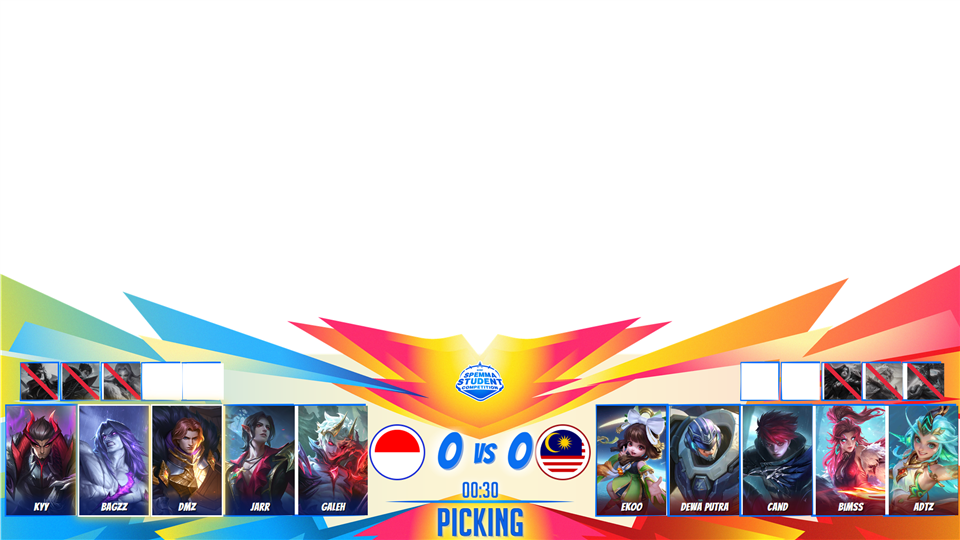
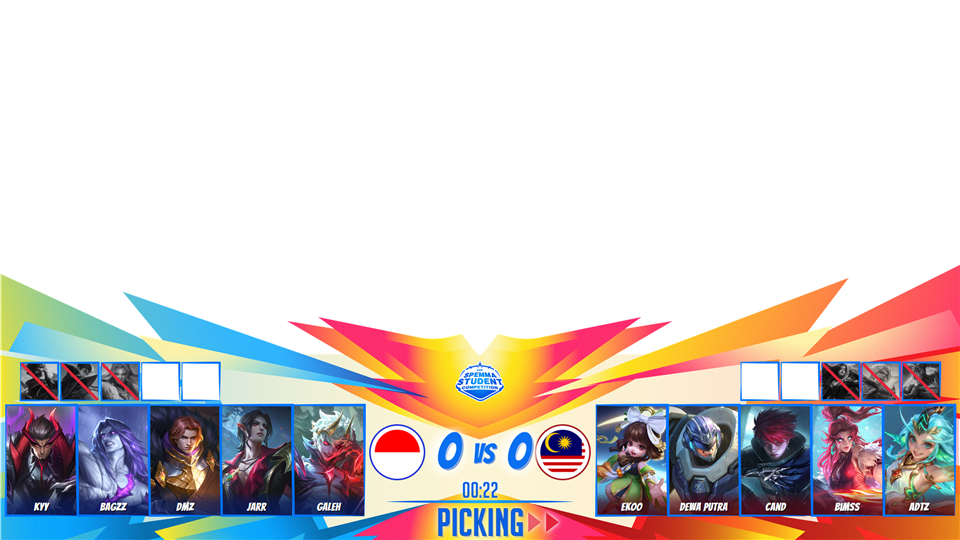
displayssc / displaysscban6: frames drawn over the heroes, turn arrows, preview fit
- slot interiors of bg.png are transparent and the background sits above the slots, so the
  hand-drawn (slightly tilted) frame lines crop the hero art cleanly; slots are 5 px larger than
  the frame interior so no white gaps show
- turn arrows beside the phase text, driven by the same direction gif as the older templates
  (Left/Right): two animated triangles in the team colour pointing at the team on the clock
- active slot: white inner ring with a pulsing glow inside the frame; thinner ban slash
- browser windows narrower than 1920 px scale the overlay to fit (OBS / vMix at 1920 unchanged)

diff --git a/public/displayssc.css b/public/displayssc.css
@@ -2,58 +2,75 @@
    Posisi slot diukur dari bingkai putih di gambar latar; isi slot ditaruh tepat di dalam bingkai. */
 
 html, body { margin: 0; padding: 0; background: transparent; overflow: hidden; }
-.ds-root { position: relative; width: 1920px; height: 1080px; overflow: hidden; font-family: var(--ssc-font-title); }
-.ds-bg { position: absolute; left: 0; top: 0; width: 1920px; height: 1080px; animation: dsBgIn 0.8s cubic-bezier(0.2, 0.8, 0.2, 1) both; }
+.ds-root { position: relative; width: 1920px; height: 1080px; overflow: hidden; isolation: isolate; transform-origin: 0 0; font-family: var(--ssc-font-title); }
+.ds-bg { position: absolute; left: 0; top: 0; z-index: 2; width: 1920px; height: 1080px; pointer-events: none; animation: dsBgIn 0.8s cubic-bezier(0.2, 0.8, 0.2, 1) both; }
+/* semua teks & logo di atas latar */
+.ds-logo, .ds-score, .ds-vs, .ds-timer, .ds-phase, .ds-teamplate { z-index: 3; }
 .hide { display: none; }
 .audiob { position: absolute; left: 0; top: 0; opacity: 0; }
 
-/* ---------- Slot ban & pick ---------- */
-.ds-bans, .ds-picks { position: absolute; display: flex; }
-.ds-bans { top: 726px; gap: 9px; }
-.ds-bans.blue { left: 41px; }
-.ds-bans.red { left: 1482px; }
-.ds-picks { top: 811px; gap: 7px; }
-.ds-picks.blue { left: 12px; }
-.ds-picks.red { left: 1193px; }
+/* ---------- Slot ban & pick ----------
+   Bagian dalam bingkai di bg.png transparan dan latar berada DI ATAS slot: garis bingkai (agak miring, gaya gambar tangan)
+   memotong gambar hero dengan rapi. Slot dibuat 5 px lebih besar dari bagian dalam bingkai agar tidak ada celah. */
+.ds-bans, .ds-picks { position: absolute; left: 0; top: 0; z-index: 1; }
 .banhero, .heropick {
-    position: relative;
+    position: absolute;
     overflow: hidden;
     background: #fff;
-    animation: dsSlotIn 0.45s cubic-bezier(0.2, 0.8, 0.2, 1) both;
-    animation-delay: calc(0.45s + var(--i) * 70ms);
+    animation: dsSlotIn 0.4s cubic-bezier(0.2, 0.8, 0.2, 1) both;
+    animation-delay: calc(0.75s + var(--i) * 60ms);
 }
-.banhero { width: 74px; height: 73px; }
-.heropick { width: 139px; height: 219px; animation-delay: calc(0.6s + var(--i) * 70ms); }
+.banhero { top: 722px; width: 82px; height: 81px; }
+.heropick { top: 807px; width: 147px; height: 227px; animation-delay: calc(0.85s + var(--i) * 60ms); }
+.ds-bans.blue .banhero:nth-child(1) { left: 37px; }
+.ds-bans.blue .banhero:nth-child(2) { left: 117px; }
+.ds-bans.blue .banhero:nth-child(3) { left: 198px; }
+.ds-bans.blue .banhero:nth-child(4) { left: 279px; }
+.ds-bans.blue .banhero:nth-child(5) { left: 360px; }
+.ds-bans.red .banhero:nth-child(1) { left: 1478px; }
+.ds-bans.red .banhero:nth-child(2) { left: 1558px; }
+.ds-bans.red .banhero:nth-child(3) { left: 1639px; }
+.ds-bans.red .banhero:nth-child(4) { left: 1720px; }
+.ds-bans.red .banhero:nth-child(5) { left: 1801px; }
+.ds-picks.blue .heropick:nth-child(1) { left: 8px; }
+.ds-picks.blue .heropick:nth-child(2) { left: 152px; }
+.ds-picks.blue .heropick:nth-child(3) { left: 296px; }
+.ds-picks.blue .heropick:nth-child(4) { left: 439px; }
+.ds-picks.blue .heropick:nth-child(5) { left: 583px; }
+.ds-picks.red .heropick:nth-child(1) { left: 1189px; }
+.ds-picks.red .heropick:nth-child(2) { left: 1333px; }
+.ds-picks.red .heropick:nth-child(3) { left: 1477px; }
+.ds-picks.red .heropick:nth-child(4) { left: 1620px; }
+.ds-picks.red .heropick:nth-child(5) { left: 1764px; }
 
 .image-box { position: absolute; inset: 0; z-index: 2; }
-.image-box img { width: 100%; height: 100%; object-fit: cover; object-position: 50% 15%; opacity: 0; }
+.image-box img { width: 100%; height: 100%; object-fit: cover; object-position: 50% 18%; opacity: 0; }
 .image-box img:not([src]), .image-box img[src=""] { visibility: hidden; }
 /* pick: splash + stinger dari draft-fx.js menutupi box, gambar cukup muncul halus */
 .heropick .image-box.show img { opacity: 1; transition: opacity 0.25s ease; }
 /* ban: hero jatuh dari besar + kilat putih, lalu abu-abu dengan garis silang merah */
-.banhero .image-box.show img { opacity: 1; filter: grayscale(0.85) brightness(0.8); animation: dsBanIn 0.5s cubic-bezier(0.2, 0.8, 0.2, 1) both; }
+.banhero .image-box.show img { opacity: 1; filter: grayscale(1) brightness(0.9); animation: dsBanIn 0.5s cubic-bezier(0.2, 0.8, 0.2, 1) both; }
 .banhero .image-box::after {
     content: '';
     position: absolute;
     inset: 0;
     opacity: 0;
-    background: linear-gradient(45deg, transparent 46%, #e3263b 46% 54%, transparent 54%);
+    background: linear-gradient(45deg, transparent 47.5%, #e3263b 47.5% 52.5%, transparent 52.5%);
     transform: scale(0.2);
 }
 .banhero .image-box.show::after { opacity: 1; transform: scale(1); transition: opacity 0.2s ease 0.35s, transform 0.3s cubic-bezier(0.3, 1.6, 0.5, 1) 0.35s; }
 
-/* giliran aktif: kotak berdenyut warna tim (ban = merah) */
+/* giliran aktif: kotak berdenyut warna tim (ban = merah) dengan cincin putih di dalam bingkai */
 .box { position: absolute; inset: 0; z-index: 1; background: transparent; }
-.box.active-ban { background: #e3263b; animation: dsTurn 0.9s ease-in-out infinite alternate; }
-.box.active-pick { animation: dsTurn 0.9s ease-in-out infinite alternate; }
-.banhero:has(.active-ban), .heropick:has(.active-pick) { box-shadow: 0 0 0 3px #fff, 0 0 18px 6px rgba(255, 210, 60, 0.9); z-index: 3; }
+.box.active-ban { background: #e3263b; }
+.box.active-ban, .box.active-pick { box-shadow: inset 0 0 0 9px #fff, inset 0 0 26px 12px rgba(255, 214, 64, 0.95); animation: dsTurn 0.9s ease-in-out infinite alternate; }
 
 /* nickname pemain di bawah kartu pick */
 .playername {
     position: absolute;
     left: 0; right: 0; bottom: 0;
     z-index: 4;
-    padding: 18px 4px 5px;
+    padding: 20px 6px 9px;
     text-align: center;
     font-size: 22px;
     line-height: 1;
@@ -136,10 +153,17 @@ html, body { margin: 0; padding: 0; background: transparent; overflow: hidden; }
 
 .ds-phase {
     position: absolute;
-    left: 710px; top: 1006px;
-    width: 500px;
-    text-align: center;
+    left: 610px; top: 1006px;
+    width: 700px;
+    display: flex; align-items: center; justify-content: center; gap: 14px;
 }
+/* panah giliran (seperti gif arah template lama): dua segitiga bergerak ke arah tim yang sedang memilih */
+.ds-arrow { display: flex; gap: 5px; visibility: hidden; filter: drop-shadow(2px 0 0 #fff) drop-shadow(-2px 0 0 #fff) drop-shadow(0 2px 0 #fff) drop-shadow(0 -2px 0 #fff) drop-shadow(0 0 8px rgba(255, 255, 255, 0.8)); }
+.ds-arrow i { width: 30px; height: 46px; background: #0b62e6; clip-path: polygon(100% 0, 0 50%, 100% 100%); animation: dsArrowL 1s ease-in-out infinite; }
+.ds-arrow i:nth-child(2) { animation-delay: 0.18s; }
+.ds-arrow.right { flex-direction: row-reverse; }
+.ds-arrow.right i { background: #e3263b; clip-path: polygon(0 0, 100% 50%, 0 100%); animation-name: dsArrowR; }
+.ds-root[data-turn="left"] .ds-arrow.left, .ds-root[data-turn="right"] .ds-arrow.right { visibility: visible; }
 .ds-phase h2 {
     margin: 0;
     font-family: 'fxnoodle', 'Bangers', sans-serif;
@@ -157,13 +181,17 @@ html, body { margin: 0; padding: 0; background: transparent; overflow: hidden; }
 @keyframes dsSlotIn { from { transform: translateY(40px) scale(0.85); opacity: 0; } to { transform: none; opacity: 1; } }
 @keyframes dsPop { from { transform: scale(0.3); opacity: 0; } to { transform: none; opacity: 1; } }
 @keyframes dsBanIn { 0% { transform: scale(1.8); opacity: 0; filter: brightness(3); } 60% { filter: brightness(1.6); } 100% { transform: none; opacity: 1; filter: grayscale(0.85) brightness(0.8); } }
-@keyframes dsTurn { from { opacity: 0.25; } to { opacity: 0.75; } }
+@keyframes dsTurn { from { opacity: 0.35; } to { opacity: 0.85; } }
+@keyframes dsArrowL { 0% { transform: translateX(10px); opacity: 0; } 50% { opacity: 1; } 100% { transform: translateX(-10px); opacity: 0; } }
+@keyframes dsArrowR { 0% { transform: translateX(-10px); opacity: 0; } 50% { opacity: 1; } 100% { transform: translateX(10px); opacity: 0; } }
 @keyframes dsLow { from { transform: scale(1); } to { transform: scale(1.15); } }
 @keyframes dsPhase { from { transform: scale(1.6) skewX(-8deg); opacity: 0; letter-spacing: 0.3em; } to { transform: none; opacity: 1; } }
 
 /* ---------- displaysscban6.html: 3 ban per tim ----------
    ban merah memakai 3 bingkai paling kanan; bingkai ban 4–5 di gambar latar ditutup plat nama tim */
-body.ban6 .ds-bans.red { left: 1643px; }
+body.ban6 .ds-bans.red .banhero:nth-child(1) { left: 1639px; }
+body.ban6 .ds-bans.red .banhero:nth-child(2) { left: 1720px; }
+body.ban6 .ds-bans.red .banhero:nth-child(3) { left: 1801px; }
 .ds-teamplate {
     position: absolute;
     top: 719px;

diff --git a/public/displaysscban6.html b/public/displaysscban6.html
@@ -11,7 +11,7 @@
 <!-- Draft pick & ban 6 (3 ban per tim, bingkai ban 4–5 di gambar latar ditutup plat nama tim), desain SPEMMA Student Competition. Browser Source 1920×1080, bagian atas transparan.
      Script sama dengan display2ban6.html (ID elemen sama): displayhero.js, draft-fx.js (splash + stinger pick), displaynicknamelogo.js, laneimg.js -->
 <body class="ban6">
-<div class="ds-root">
+<div class="ds-root" id="dsRoot">
     <img class="ds-bg" src="Assets/draftssc/bg.png" alt="">
 
     <div class="ds-bans blue">
@@ -152,7 +152,11 @@
     <div class="ds-vs">VS</div>
 
     <div class="ds-timer"><p>00:<span id="timer">0</span></p></div>
-    <div class="ds-phase"><h2 id="phase"></h2></div>
+    <div class="ds-phase">
+        <div class="ds-arrow left"><i></i><i></i></div>
+        <h2 id="phase"></h2>
+        <div class="ds-arrow right"><i></i><i></i></div>
+    </div>
 
     <div class="hide">
         <div id="timer-bar"></div><img id="arrow" src="" alt="">
@@ -169,10 +173,17 @@
     const t = document.getElementById('timer'), p = document.getElementById('phase'), arrow = document.getElementById('arrow');
     new MutationObserver(() => t.parentElement.classList.toggle('low', (parseInt(t.textContent, 10) || 0) <= 10)).observe(t, { childList: true, characterData: true, subtree: true });
     let last = '';
+    const root = document.getElementById('dsRoot');
     const fill = () => {
-        const m = !p.textContent.trim() && /(banning|picking|adjustment)/i.exec(arrow.getAttribute('src') || '');
+        const src = arrow.getAttribute('src') || '';
+        const m = !p.textContent.trim() && /(banning|picking|adjustment)/i.exec(src);
         if (m) p.textContent = m[1].toUpperCase();
+        // panah giliran mengikuti gif arah yang sama dengan template lama (LeftPicking / RightBanning / Adjustment)
+        root.dataset.turn = /\/left/i.test(src) ? 'left' : /\/right/i.test(src) ? 'right' : '';
     };
+    // pratinjau di browser yang lebih sempit dari 1920 px: diperkecil agar terlihat utuh (OBS / vMix 1920 tidak berubah)
+    const fit = () => { const k = Math.min(1, innerWidth / 1920); root.style.transform = k < 1 ? `scale(${k})` : ''; };
+    addEventListener('resize', fit); fit();
     new MutationObserver(fill).observe(arrow, { attributes: true, attributeFilter: ['src'] });
     new MutationObserver(() => {
         fill();

diff --git a/public/displayssc.html b/public/displayssc.html
@@ -11,7 +11,7 @@
 <!-- Draft pick & ban (5 ban per tim), desain SPEMMA Student Competition. Browser Source 1920×1080, bagian atas transparan.
      Script sama dengan display2.html (ID elemen sama): displayhero.js, draft-fx.js (splash + stinger pick), displaynicknamelogo.js, laneimg.js -->
 <body>
-<div class="ds-root">
+<div class="ds-root" id="dsRoot">
     <img class="ds-bg" src="Assets/draftssc/bg.png" alt="">
 
     <div class="ds-bans blue">
@@ -161,7 +161,11 @@
     <div class="ds-vs">VS</div>
 
     <div class="ds-timer"><p>00:<span id="timer">0</span></p></div>
-    <div class="ds-phase"><h2 id="phase"></h2></div>
+    <div class="ds-phase">
+        <div class="ds-arrow left"><i></i><i></i></div>
+        <h2 id="phase"></h2>
+        <div class="ds-arrow right"><i></i><i></i></div>
+    </div>
 
     <div class="hide">
         <div id="name-box-1"></div><div id="name-box-8"></div>
@@ -179,10 +183,17 @@
     const t = document.getElementById('timer'), p = document.getElementById('phase'), arrow = document.getElementById('arrow');
     new MutationObserver(() => t.parentElement.classList.toggle('low', (parseInt(t.textContent, 10) || 0) <= 10)).observe(t, { childList: true, characterData: true, subtree: true });
     let last = '';
+    const root = document.getElementById('dsRoot');
     const fill = () => {
-        const m = !p.textContent.trim() && /(banning|picking|adjustment)/i.exec(arrow.getAttribute('src') || '');
+        const src = arrow.getAttribute('src') || '';
+        const m = !p.textContent.trim() && /(banning|picking|adjustment)/i.exec(src);
         if (m) p.textContent = m[1].toUpperCase();
+        // panah giliran mengikuti gif arah yang sama dengan template lama (LeftPicking / RightBanning / Adjustment)
+        root.dataset.turn = /\/left/i.test(src) ? 'left' : /\/right/i.test(src) ? 'right' : '';
     };
+    // pratinjau di browser yang lebih sempit dari 1920 px: diperkecil agar terlihat utuh (OBS / vMix 1920 tidak berubah)
+    const fit = () => { const k = Math.min(1, innerWidth / 1920); root.style.transform = k < 1 ? `scale(${k})` : ''; };
+    addEventListener('resize', fit); fit();
     new MutationObserver(fill).observe(arrow, { attributes: true, attributeFilter: ['src'] });
     new MutationObserver(() => {
         fill();
